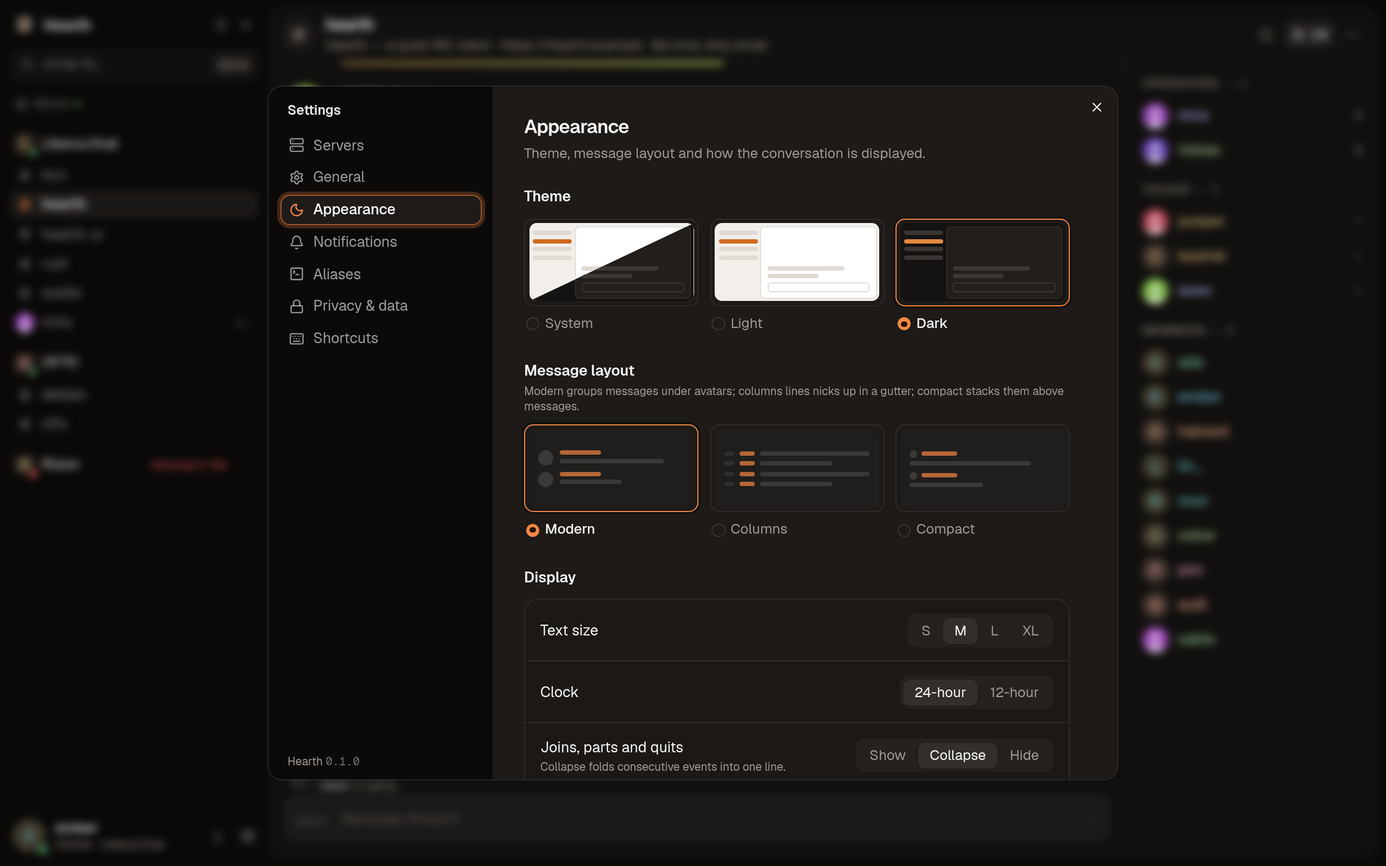
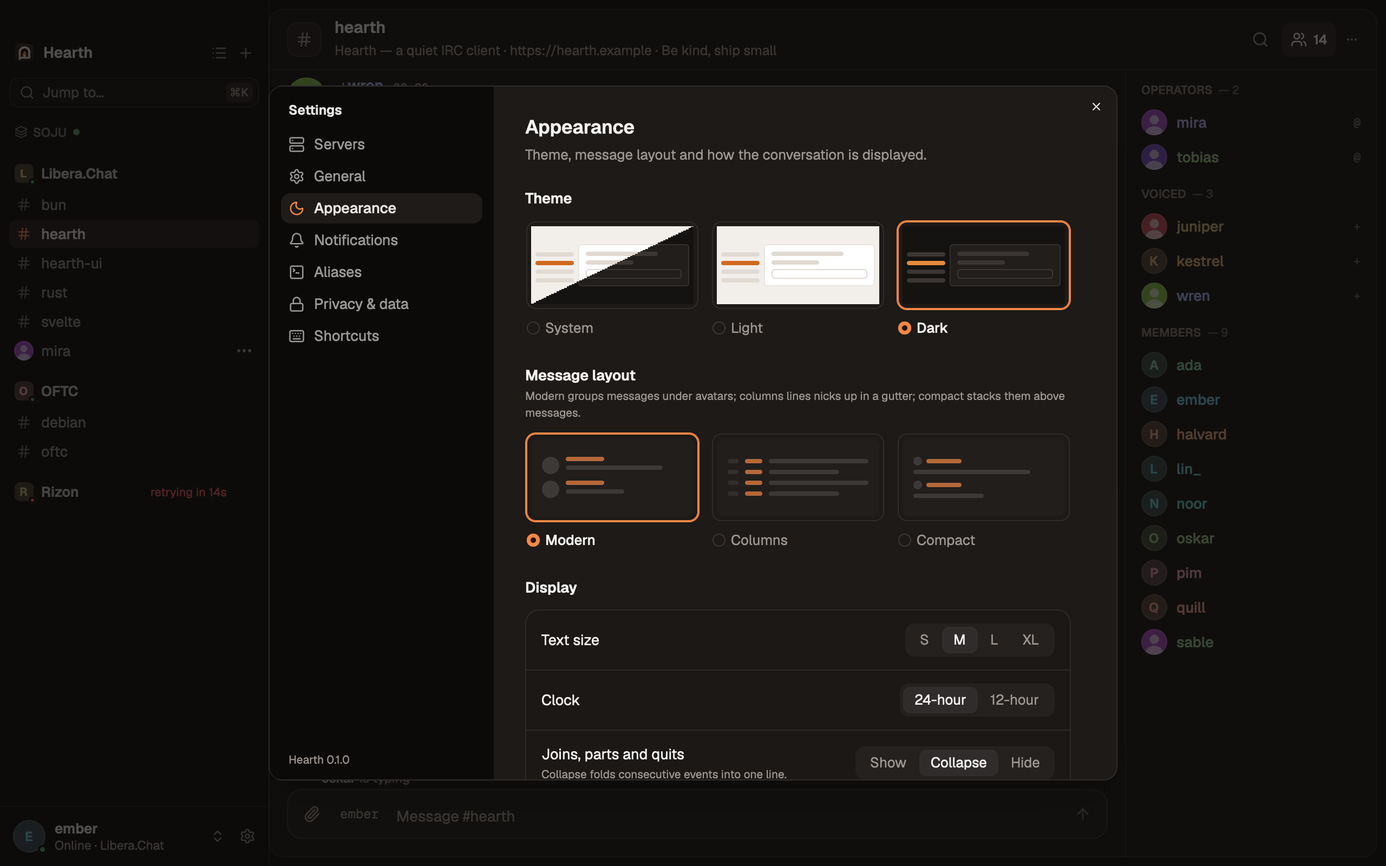
docs: describe the Rust app and refresh the screenshots

diff --git a/README.md b/README.md
@@ -1,5 +1,5 @@
 <p align="center">
-  <img src="src/assets/logo.png" width="96" height="96" alt="">
+  <img src="crates/hearth-app/assets/logo.png" width="96" height="96" alt="">
 </p>
 
 <h1 align="center">Hearth</h1>
@@ -19,7 +19,7 @@
   <img src="docs/screenshots/chat-dark.png" alt="Hearth showing a busy channel with replies, reactions, a link preview and the member list">
 </p>
 
-Hearth is built on a TypeScript engine running on Bun (`src/bun/core`) that handles connections, storage and the keychain, with a Svelte 5 interface on top, packaged with [Electrobun](https://electrobun.dev) and its bundled Chromium (CEF). It treats modern IRC features (history, read markers, replies, reactions, multiline messages) as part of the client rather than add-ons.
+Hearth is a native Rust app: an IRC engine (`crates/hearth-core`) that handles connections, storage and the keychain, a toolkit-free client state model (`crates/hearth-model`), and a GPU-rendered interface built with [GPUI Kit](https://github.com/longbridge/gpui-kit) (`crates/hearth-app`). It treats modern IRC features (history, read markers, replies, reactions, multiline messages) as part of the client rather than add-ons.
 
 ## Download
 
@@ -27,11 +27,12 @@ Get the latest installer from the [releases page](https://github.com/madrazaldi/
 
 | Platform | File |
 | --- | --- |
-| Windows | `Hearth_x.y.z_x64-setup.exe` or `Hearth_x.y.z_x64_en-US.msi` |
-| macOS (Apple silicon and Intel) | `Hearth_x.y.z_universal.dmg` |
-| Linux | `.AppImage`, `.deb` or `.rpm` |
+| Windows | `hearth-x.y.z-windows-x86_64-setup.exe` |
+| macOS (Apple silicon) | `hearth-x.y.z-macos-aarch64.dmg` |
+| macOS (Intel) | `hearth-x.y.z-macos-x86_64.dmg` |
+| Linux | `hearth-x.y.z-linux-x86_64.AppImage` or `.deb` |
 
-Hearth updates itself: new versions show up under Settings › General.
+The macOS app, the Windows installer and the AppImage update themselves: new versions show up under Settings › General. The `.deb` updates with your package manager.
 
 > [!NOTE]
 > The macOS build is not notarized yet, so Gatekeeper blocks the first launch. Right-click Hearth in Applications and choose **Open**, or run `xattr -dr com.apple.quarantine /Applications/Hearth.app`. On Windows, SmartScreen may warn about an unrecognized app until the installers are code-signed.
@@ -74,14 +75,14 @@ Hearth updates itself: new versions show up under Settings › General.
 - **Saved scrollback:** messages are stored locally in SQLite (`hearth.db` in the app-data directory), so scrollback survives restarts and works on servers without chathistory. It can be turned off and wiped under Settings → Privacy & data.
 - **Search:** ⌘⇧F searches every buffer, one network or the current buffer, using the local full-text index plus bouncer search. Narrow it with `from:nick`, `in:#channel`, `on:`, `before:` and `after:` (a `YYYY-MM-DD` date, `today` or `yesterday`); `from:` and `in:` autocomplete. Older results load as you scroll. Choosing a result jumps to the message even if it was never loaded: the history around it is fetched, and the messages between it and the present fill in as you scroll. Reopening search brings back the last query and results.
 - **Replies and reactions:** hover a message to reply, react, copy it or delete your own.
-- **Link previews** (opt-in): pages and images are fetched by the Bun backend, which refuses local and private addresses at every redirect.
+- **Link previews** (opt-in): pages and images are fetched by the engine, never by the interface, and it refuses local and private addresses at every redirect.
 - **Inline images**: with link previews on, image links (including soju FILEHOST uploads) show as thumbnails you can open full size. Images are checked by their bytes (PNG, JPEG, GIF, WebP; at most 8 MB), animations play on hover unless autoplay is on, and images in messages that mention NSFW stay blurred until clicked. Video and audio links get a compact card that opens in your browser; nothing is streamed into the app.
 - **Channel browser** for `/list`, with filtering and sorting.
 - **Saved buffers:** open channels and private conversations are remembered per network, including channel keys, and restored on launch.
 - **Ignore list** with nick or `nick!user@host` wildcard masks. **Per-buffer notifications:** all messages, mentions only, or muted.
 - **Watch list:** MONITOR shows online presence for private conversations and announces watched nicks.
 - **Tray:** optionally keep running in the menu bar or system tray when the window closes, and mark yourself away after a period in the background.
-- **Unread state:** read markers sync between devices, the sidebar shows unread counts and mention badges, a "New" divider marks where you left off, and the dock badge counts mentions.
+- **Unread state:** read markers sync between devices, the sidebar shows unread counts and mention badges, a "New" divider marks where you left off, and the dock badge (the tray tooltip on Windows and Linux) counts mentions.
 - **Desktop notifications** for mentions, highlight words and private messages.
 - **Highlight rules:** global highlight words, plus per-server words and `/regex/flags` patterns with a live test field, and "never highlight" nicks or masks for bots and relays.
 - **Aliases:** your own slash commands, set up under Settings → Aliases. For example `/ns` → `/msg NickServ $*`. They support `$1`…`$9`, `$2-`, `$*`, `$nick`, `$channel` and `$network`, and several commands separated by `;`. An alias can replace a built-in command and still call it.
@@ -110,7 +111,6 @@ Hearth updates itself: new versions show up under Settings › General.
 - **Security:**
   - Passwords are kept in the OS keychain, and existing plain-text passwords are migrated out of the config file.
   - Client certificates (CertFP) can be generated in the app.
-  - The UI runs under a strict Content Security Policy.
 
 ## Commands
 
@@ -125,7 +125,7 @@ Type `/help` in the app for the full list. The main ones are `/join`, `/part`, `
 | ⌘1–9 | Go to the Nth channel |
 | ⌘F | Filter messages in the current buffer |
 | ⌘⇧F | Search messages |
-| ⌘W | Close or leave the buffer |
+| ⌘W | Close the window (Ctrl+W closes or leaves the buffer on Windows and Linux) |
 | ⌘⇧M | Toggle the member list |
 | ⌘, | Open Settings |
 | ⌘/ | Show all keyboard shortcuts |
@@ -138,97 +138,100 @@ On Windows and Linux, use Ctrl instead of ⌘ and Alt instead of ⌥.
 
 ## Development
 
-You need [Bun](https://bun.sh). Electrobun downloads its own runtime and the bundled Chromium (CEF) on first use, so there is no native toolchain to install. On Linux the app needs the usual GTK and tray libraries at runtime.
+You need a stable [Rust toolchain](https://rustup.rs) (see `rust-version` in `Cargo.toml`). On Linux, install the libraries GPUI needs with `scripts/install-linux-deps.sh`. The first build compiles GPUI and takes a few minutes; later builds are incremental.
 
 ```sh
-bun install
-bun run dev            # the UI alone in a browser, against the scripted mock (src/lib/mock.ts)
-bun run start          # build the UI and run the real app (Electrobun dev mode)
-bun run check          # svelte-check + tsc for the UI, the build scripts and the Bun backend
-bun run test           # Vitest for the UI, then bun test for the backend (actor tests against a scripted server)
-bun run build          # stable release build into build/ and artifacts/
-bun run probe          # headless smoke test of the backend against a real server
+cargo run                          # the app (crates/hearth-app), with your real config and logs
+HEARTH_MOCK=1 cargo run            # the app against a scripted IRC session, no server needed
+cargo test --workspace             # engine, client state and app tests
+cargo clippy --workspace --all-targets -- -D warnings
+cargo fmt --all                    # rustfmt.toml sets the line width
+cargo xtask screenshots            # regenerate docs/screenshots offscreen (no window opens)
 ```
 
-`electrobun prepare` (run for you by `install`, `start` and `build`) projects the Electrobun SDK into `.hutch/devkit`, which is git-ignored; the UI and backend type-check against it.
+`HEARTH_MOCK=1` (or `--mock`) replays a scripted session from `crates/hearth-model/src/mock.rs` (Libera.Chat, OFTC and Rizon behind a soju bouncer), so UI work needs no server. Environment variables shape it: `HEARTH_THEME=light|dark|system`, `HEARTH_LAYOUT=columns|compact`, `HEARTH_VIEW=settings|switcher|search|channels|shortcuts`, `HEARTH_TAB=<settings tab>` and `HEARTH_SERVER=<id>` (edit a server), `HEARTH_BUFFER=<buffer>`, `HEARTH_QUERY=<search>`, `HEARTH_UPDATE=available|error` (the scripted updater's answer; by default there is no update), `HEARTH_EMPTY=1` (first-run screen), `HEARTH_NOAVATARS=1`, and `HEARTH_STRESS=1` (a `#stress` channel with about 10k lines of scrollback and 5k members, for performance work; `HEARTH_STRESS=live` adds a new line every 3 seconds). `HEARTH_BACKGROUND=1` opens the window without taking focus.
 
-When `bun run dev` runs in a plain browser instead of inside the app, Hearth replays a scripted IRC session from `src/lib/mock.ts`. This lets you work on the UI without a server. Query parameters control the preview: `?theme=light`, `?layout=columns|compact`, `?view=settings`, `?view=switcher`, `?view=search`, `?view=channels`, `?view=shortcuts`, `?tab=privacy` (open a Settings tab; add `&server=<id>` to edit a server), `?update=none` (the mock updater reports no update; by default it offers 0.2.0), `?empty` (first-run screen) and `?stress` (a `#stress` channel with about 10k lines of scrollback and 5k members, for performance work; `?stress=live` adds a new line every 3 seconds).
+A development run uses the same config and log directories as an installed Hearth (the identifier is still `app.hearth.irc`, and the keychain entries are the ones earlier versions wrote, so existing installs carry over). Set `HEARTH_CONFIG_DIR` and `HEARTH_DATA_DIR` to point it at throwaway data instead.
 
-`bun run start` uses the same config and log directories as an installed Hearth (the identifier is still `app.hearth.irc`, so existing installs carry over). Set `HEARTH_CONFIG_DIR` and `HEARTH_DATA_DIR` to point a development run at throwaway data instead.
+CI (`.github/workflows/ci.yml`) runs on every push and pull request: formatting, clippy and the tests on Linux, macOS and Windows, and a check that every crate follows the workspace version.
 
-`bun run screenshots` regenerates the images in `docs/screenshots` from the mock while `bun run dev` is running. It uses an installed Chrome; set `HEARTH_CHROME` to the binary of another Chromium-based browser to use that instead.
-
-CI (`.github/workflows/ci.yml`) runs on every push and pull request: type checks, Vitest and the Bun backend tests on Linux, macOS and Windows, and a check that the version numbers agree.
-
-To smoke-test the backend headlessly:
+To smoke-test the engine headlessly against a real server:
 
 ```sh
-HEARTH_HOST=irc.libera.chat HEARTH_NICK=someone bun run probe
+HEARTH_HOST=irc.libera.chat HEARTH_NICK=someone cargo run -p hearth-core --example probe
 ```
 
 ## Releasing
 
-Versions follow [semver](https://semver.org). The version lives in `electrobun.config.ts` and `package.json`, and CI fails if they disagree.
+Versions follow [semver](https://semver.org). The version lives once, in the workspace `Cargo.toml`, and CI fails if a crate or `Cargo.lock` disagrees.
 
-1. Run `bun run bump 0.2.0`. It sets both.
+1. Run `cargo xtask bump 0.2.0`.
 2. Commit (`chore(release): v0.2.0`), then tag and push: `git tag v0.2.0 && git push origin main v0.2.0`. The tag must match the version.
-3. `.github/workflows/release.yml` runs CI, then builds macOS (arm64 and x64), Linux and Windows apps into a **draft** GitHub Release. Each build ships its installer plus the flat files Electrobun's updater reads (`stable-<os>-<arch>-update.json` and the archive next to it). The release notes are generated from the commits since the previous tag by [git-cliff](https://git-cliff.org) (`cliff.toml`), grouped by conventional-commit type, so prefer `feat:`, `fix:` and `perf:` prefixes. The workflow can also be started by hand from the Actions tab.
-4. Check the draft, edit the notes if needed, and publish it. The in-app updater reads `https://github.com/madrazaldi/hearth/releases/latest/download/`, which only sees published releases.
+3. `.github/workflows/release.yml` runs CI, then builds macOS (Apple silicon and Intel), Linux and Windows installers with [cargo-packager](https://github.com/crabnebula-dev/cargo-packager) into a **draft** GitHub Release, plus the `latest.json` the updater reads. The release notes are generated from the commits since the previous tag by [git-cliff](https://git-cliff.org) (`cliff.toml`), grouped by conventional-commit type, so prefer `feat:`, `fix:` and `perf:` prefixes. The workflow can also be started by hand from the Actions tab.
+4. Check the draft, edit the notes if needed, and publish it. The in-app updater reads `https://github.com/madrazaldi/hearth/releases/latest/download/latest.json`, which only sees published releases.
 
-Electrobun's updater is hash-based: it compares the `hash` in the update file with the installed build and downloads the archive it names, so there is no separate update signing key. Update integrity rests on HTTPS and the GitHub release. Dev builds disable updates.
+Updates are signed with [minisign](https://jedisct1.github.io/minisign/): the public key is compiled into the app, and an update whose signature does not verify is refused. Builds without a key (development builds, forks) never update themselves.
 
-Signing is optional. Without the secrets below the workflow still builds, just unsigned (Repository secrets under Settings > Secrets and variables > Actions):
+Everything below is optional; without a group's secrets the workflow still builds, just unsigned or without updates (Repository secrets under Settings > Secrets and variables > Actions):
 
 | Secret | Purpose |
 | --- | --- |
-| `ELECTROBUN_CERTIFICATE` | Base64 of a Developer ID Application `.p12`. |
-| `ELECTROBUN_CERTIFICATE_PASSWORD` | Password of that `.p12`. |
-| `ELECTROBUN_DEVELOPER_ID` | For example `Developer ID Application: Name (TEAMID)`. |
-| `ELECTROBUN_APPLEID`, `ELECTROBUN_APPLEIDPASS`, `ELECTROBUN_TEAMID` | Apple ID, app-specific password and team, to notarize. |
+| `UPDATER_PRIVATE_KEY`, `UPDATER_PRIVATE_KEY_PASSWORD` | Signs update archives. Generate a pair with `cargo packager signer generate`. |
+| `UPDATER_PUBKEY` | The public half, compiled into the app. |
+| `MACOS_CERTIFICATE` | Base64 of a Developer ID Application `.p12`. |
+| `MACOS_CERTIFICATE_PASSWORD` | Password of that `.p12`. |
+| `MACOS_DEVELOPER_ID` | For example `Developer ID Application: Name (TEAMID)`. |
+| `MACOS_APPLE_ID`, `MACOS_APPLE_PASSWORD`, `MACOS_TEAM_ID` | Apple ID, app-specific password and team, to notarize. |
 
-Electrobun has no signing step for Windows or Linux, so SmartScreen warns on first run there. Without Apple secrets the macOS app is unsigned and Gatekeeper blocks the first launch (see Download).
+The `ELECTROBUN_*` names the macOS secrets had before are still read. Windows and Linux builds are not code-signed, so SmartScreen warns on first run there. Without Apple secrets the macOS app is unsigned and Gatekeeper blocks the first launch (see Download).
 
-Dependabot (`.github/dependabot.yml`) opens grouped monthly PRs for npm and GitHub Actions updates.
+To build an installer locally: `cargo install cargo-packager --locked`, then `cargo packager --release -p hearth-app`.
+
+Dependabot (`.github/dependabot.yml`) opens grouped monthly PRs for Cargo and GitHub Actions updates.
 
 ## Architecture
 
 ```
-src/bun/core   the engine: IRC connections, log store, keychain, previews, uploads, and `Core`, every command the UI calls
-src/bun        the Electrobun main process: window, tray, close-to-tray, notifications, updater, and the RPC wiring
-src/shared     the RPC schema shared by both sides
-src            the Svelte UI
+crates/hearth-core    the engine: IRC connections, log store, keychain, previews, uploads, and `Core`, every command the app calls
+crates/hearth-model   the client state: connections, buffers, incoming messages, history, unread counts, slash commands, and the scripted mock
+crates/hearth-app     the GPUI Kit app: views, the host that runs the model against the engine, and desktop integration
+xtask                 version bumps, release staging and screenshots (`cargo xtask`)
 ```
 
-The UI talks to the main process through one RPC channel. `src/lib/ipc.ts` exposes `invoke(command, args)` and `listen(event, handler)`; inside the app they go over Electrobun's RPC, and in a plain browser they go to the mock. The main process pushes IRC events (batched, one payload per burst) and updater progress back the same way.
+The engine runs on its own tokio runtime and hands event batches (one per burst) to the app. The model is a synchronous state machine with no UI toolkit or async runtime: it takes engine events in and queues `Effect`s out (send these lines, save these buffers, fetch this history), and the app's host executes them against the engine and feeds results back with `resolve`. That keeps the client logic testable by feeding raw IRC lines.
 
-### Core (`src/bun/core`)
+### Engine (`crates/hearth-core`)
 
-- `app.ts` is `Core`: config and commands.
-- `message.ts` parses and serializes IRC messages, including tags. `time.ts` handles server-time tags.
-- `transport.ts` reduces TCP, TLS and WebSocket to a line reader and a line writer (`Bun.connect` and the native WebSocket).
-- `client.ts` runs one actor per connection. It handles registration, CAP and SASL, STS, keepalive, reconnects, labeled-response routing, chathistory batches, folding `draft/multiline` batches into single messages, and message logging. `clock.ts` lets the tests drive backoff and keepalive timers by hand.
-- `scram.ts` implements SCRAM-SHA-256.
-- `manager.ts` owns all connections and spawns a child connection for each bouncer network.
-- `events.ts` batches events into a single payload per burst before sending them to the UI.
-- `store.ts` is the SQLite log (`bun:sqlite`, WAL). It holds messages with an FTS5 index, saved buffers and STS policies, and writes are batched into transactions.
-- `secrets.ts` stores and loads keychain entries with `Bun.secrets`. `certs.ts` generates client certificates and computes their fingerprints.
-- `preview.ts` fetches link previews and metadata avatars, with SSRF guards (`net.ts`) and a cache. `upload.ts` handles file uploads.
-- `harness.ts` and `*.test.ts` drive the connection actor against a scripted local server (`bun test`).
+- `app.rs` is `Core`: config and commands. Its async commands return futures that run on the engine's runtime, so the app awaits them from GPUI's executor.
+- `irc/message.rs` parses and serializes IRC messages, including tags. `irc/time.rs` handles server-time tags.
+- `irc/transport.rs` reduces TCP, TLS (rustls) and WebSocket to a line reader and a line writer.
+- `irc/client.rs` runs one actor per connection. It handles registration, CAP and SASL, STS, keepalive, reconnects, labeled-response routing, chathistory batches, folding `draft/multiline` batches into single messages, and message logging.
+- `irc/scram.rs` implements SCRAM-SHA-256.
+- `irc/manager.rs` owns all connections and spawns a child connection for each bouncer network.
+- `irc/events.rs` batches events into a single delivery per burst.
+- `store.rs` is the SQLite log (rusqlite, WAL). It holds messages with an FTS5 index, saved buffers and STS policies, and writes are batched into transactions.
+- `secrets.rs` stores and loads keychain entries. `certs.rs` generates client certificates and computes their fingerprints. `paths.rs` picks the config and data directories.
+- `preview.rs` fetches link previews and metadata avatars, with SSRF guards on every hop and a cache. `upload.rs` handles file uploads.
+- `tests/` drive the connection actor against a scripted local server.
 
-### Frontend (`src/lib`)
+### Client state (`crates/hearth-model`)
 
-- `state.svelte.ts` holds all client state (connections, buffers, members) using Svelte 5 runes.
-- `incoming.ts` turns server messages into state changes.
-- `history.ts` loads chathistory, falls back to the local log and dedupes merged lines. It also tracks the gaps a jump leaves between loaded stretches and fills them.
-- `search.ts` parses search filters and pages through the local log and the bouncer (buffer by buffer where the bouncer requires `in`).
-- `saved.ts` saves and restores open buffers.
-- `monitor.ts` tracks watched nicks with MONITOR.
-- `unread.ts` counts unread messages and highlights and syncs read markers.
-- `ignore.ts` matches ignore masks.
-- `*.test.ts` are Vitest suites. `test-utils.ts` feeds raw IRC lines into a mocked backend.
-- `commands.ts` implements slash commands. `multiline.ts` splits composer text into `draft/multiline` batches.
-- `format.ts` parses mIRC formatting and finds links.
-- `components/` holds the UI.
+- `state.rs` (`App`), `conn.rs` and `buffer.rs` hold all client state. `effect.rs` is what the host executes.
+- `incoming.rs` turns server messages into state changes.
+- `history.rs` loads chathistory, falls back to the local log and dedupes merged lines. It also tracks the gaps a jump leaves between loaded stretches and fills them.
+- `search.rs` and `search_panel.rs` parse search filters and page through the local log and the bouncer (buffer by buffer where the bouncer requires `in`).
+- `saved.rs`, `monitor.rs`, `unread.rs` and `ignore.rs` save open buffers, track watched nicks, count unread messages and highlights, and match ignore masks.
+- `commands.rs` and `aliases.rs` implement slash commands. `multiline.rs` splits composer text into `draft/multiline` batches. `composer.rs` handles completion and input history.
+- `format.rs` parses mIRC formatting and finds links. `timeline.rs` groups lines for the message list.
+- `panels.rs`, `welcome.rs` and `rows.rs` hold the logic behind the sidebar, switcher, channel browser, settings forms and first-run flow, so the views stay thin.
+- `mock.rs` is the scripted session. `testing.rs` feeds raw IRC lines in tests.
+
+### App (`crates/hearth-app`)
+
+- `host/` owns the model in a global GPUI entity that outlives windows, pumps engine events into it, runs effects and timers, and drives the mock in mock mode.
+- `ui/` holds the views. `ui/theme.rs` defines the light and dark themes; `ui/keys.rs` the keyboard shortcuts.
+- `platform/` is the desktop integration: menus, tray, close-to-tray, notifications, the dock badge, opening links, and the updater.
+- `tests/` run the host headlessly against the mock and against a scripted local server; `examples/screenshots.rs` renders the docs screenshots.
 
 Config is stored as JSON in the OS app-config directory with `0600` permissions. Passwords are stored in the OS keychain (service `app.hearth.irc`). If the keychain is unavailable, they stay in the config file instead.
 

diff --git a/AGENTS.md b/AGENTS.md
@@ -4,70 +4,72 @@ Guidance for coding agents working in this repo. See README.md for features and 
 
 ## Stack
 
-Hearth is an IRC client. The backend is TypeScript on Bun (`src/bun/core`), running in the main process of an [Electrobun](https://electrobun.dev) app (`src/bun`). The UI is Svelte 5 runes + TypeScript (`src/`), built with Vite and rendered by Electrobun's bundled Chromium (CEF) on every platform (`renderer: 'cef'` in `electrobun.config.ts`), so don't add WebKit/WebView2-specific workarounds.
+Hearth is an IRC client written in Rust. The engine (`crates/hearth-core`) runs connections, storage and the keychain on its own tokio runtime. The client state (`crates/hearth-model`) is a synchronous state machine with no UI toolkit and no async runtime. The app (`crates/hearth-app`) renders it with [GPUI Kit](https://github.com/longbridge/gpui-kit) (`gpui-kit` 0.9, pinned exactly: GPUI snapshots change API between releases, so bump it deliberately). `xtask/` holds repo chores.
 
 ## Commands
 
 ```sh
-bun install                    # also runs `electrobun prepare`, which projects the SDK into .hutch/devkit (git-ignored)
-bun run dev                    # UI only, in a browser, against the scripted mock (src/lib/mock.ts)
-bun run start                  # build the UI and run the real app (electrobun dev)
-bun run check                  # svelte-check + tsc for UI, build scripts and src/bun — must report 0 errors
-bun run test                   # Vitest (UI) then bun test (src/bun)
-bun run build                  # stable Electrobun build into build/ and artifacts/
-bun run probe                  # headless backend smoke test: HEARTH_HOST=… HEARTH_NICK=… bun run probe
-bun run screenshots            # regenerate docs/screenshots (needs `bun run dev` running)
+cargo run                                   # the app with your real config (set HEARTH_CONFIG_DIR/HEARTH_DATA_DIR for throwaway data)
+HEARTH_MOCK=1 cargo run                     # the app against the scripted mock (crates/hearth-model/src/mock.rs)
+cargo test --workspace                      # all tests; CI runs them with --locked
+cargo clippy --workspace --all-targets -- -D warnings
+cargo fmt --all                             # rustfmt.toml: max_width 160
+cargo xtask screenshots                     # regenerate docs/screenshots offscreen
+cargo xtask bump <x.y.z>                    # the version lives only in the workspace Cargo.toml
+HEARTH_HOST=… HEARTH_NICK=… cargo run -p hearth-core --example probe   # headless engine smoke test
 ```
 
-Run a single test: `bun x vitest run -t "name"` / `bun test src/bun -t "name"`.
+Run a single test: `cargo test -p hearth-model <name>` (or `-p hearth-core`, `-p hearth-app`).
 
-CI (`.github/workflows/ci.yml`) runs check and both test suites on Linux/macOS/Windows. Releases come from `.github/workflows/release.yml` on a `v*` tag (see README "Releasing"): it reruns CI, then builds macOS, Linux and Windows apps into a draft release with git-cliff notes (`cliff.toml`). Bump versions with `bun run bump <x.y.z>`, which keeps `electrobun.config.ts` and `package.json` in sync (CI checks this). Use conventional commit prefixes; the release notes are grouped by them. Never commit signing material. The frontend updater lives in `src/lib/updater.svelte.ts` over the `updater-*` commands in `src/bun/index.ts` (Electrobun's hash-based `Updater`); `mock.ts` fakes those commands.
+CI (`.github/workflows/ci.yml`) runs fmt, clippy and the tests on Linux/macOS/Windows, plus `cargo xtask check-version`. Releases come from `.github/workflows/release.yml` on a `v*` tag (see README "Releasing"): it reruns CI, then builds installers with cargo-packager (config in `[package.metadata.packager]` of `crates/hearth-app/Cargo.toml`) into a draft release with git-cliff notes (`cliff.toml`) and a minisign-signed `latest.json` for the updater. Use conventional commit prefixes; the release notes are grouped by them. Never commit signing material.
 
 ## Architecture
 
-**Core (`src/bun/core`)**
-- `app.ts`: `Core`, which owns everything below; `Core.invoke(command, args)` implements every command the UI can call.
-- `client.ts`: one actor per connection (a serialized async loop). It handles registration, CAP/SASL (PLAIN, EXTERNAL, SCRAM), STS, reconnect/backoff, labeled-response and chathistory routing (`Route`, pending requests keyed by id), and logging to the store. It stamps a `time` tag on live messages that lack one. Timers go through `clock.ts` so tests can drive them with `ManualClock` (in `harness.ts`).
-- `manager.ts`: owns the connections, spawns a child connection per soju network, and caps the send backlog (`MAX_BACKLOG`).
-- `events.ts`: an Emitter that batches events into one RPC payload per burst.
-- `transport.ts`: TCP/TLS/WebSocket as a line reader and writer (`Bun.connect`, native WebSocket). It also does client certificates.
-- `store.ts`: SQLite (`bun:sqlite`, WAL, FTS5). Writes are queued and flushed in batches. Use `Db.memory()` in tests.
-- `secrets.ts`: the keychain via `Bun.secrets` (service `app.hearth.irc`). Config secrets are stripped from `config.json` when `inKeychain` is set.
-- `preview.ts` + `net.ts`: link previews with SSRF guards. Every hop must pass `checkPublic`.
-- `paths.ts`: config/data directories; `HEARTH_CONFIG_DIR`/`HEARTH_DATA_DIR` override them.
+**Engine (`crates/hearth-core`)**
+- `app.rs`: `Core`, a cheap `Clone` handle that owns everything below. Sync commands need no tokio context; async ones return `Pending<T>`, a boxed future already running on the engine's runtime, so any executor can await it. Commands for the same server run in call order.
+- `irc/client.rs`: one actor per connection (a serialized async loop). It handles registration, CAP/SASL (PLAIN, EXTERNAL, SCRAM), STS, reconnect/backoff, labeled-response and chathistory routing, and logging to the store. It stamps a `time` tag on live messages that lack one.
+- `irc/manager.rs`: owns the connections, spawns a child connection per soju network, and caps the send backlog (`MAX_BACKLOG`).
+- `irc/events.rs`: an emitter that batches events into one delivery per burst.
+- `irc/transport.rs`: TCP/TLS/WebSocket as a line reader and writer, including client certificates.
+- `store.rs`: SQLite (rusqlite, WAL, FTS5). Writes are queued and flushed in batches; reads flush first. Use `Db::memory()` in tests.
+- `secrets.rs`: the keychain (service `app.hearth.irc`), behind a `Keychain` trait. Entries match what the old Bun build wrote (`Bun.secrets`), so saved passwords carry over. Tests use `MemoryKeychain`; never touch the real keychain from a test.
+- `preview.rs`: link previews and avatars with SSRF guards. Every hop must pass the public-address check.
+- `paths.rs`: config/data directories; `HEARTH_CONFIG_DIR`/`HEARTH_DATA_DIR` override them.
 
-**Main process (`src/bun/index.ts`, `src/bun/commands.ts`)**: window (`BrowserWindow`, CEF), tray, close-to-tray, notifications, opener, updater, and the RPC server. `src/shared/rpc.ts` is the RPC schema; `IRC_COMMANDS` in `commands.ts` lists the commands forwarded to `Core.invoke`. Events go back with the `irc` push message.
+**Client state (`crates/hearth-model`)**
+- `state.rs`: `App`, with `Conn` (`conn.rs`) and `Buffer` (`buffer.rs`). The host loop is `handle_events` → `take_effects` → execute → `resolve(req, result)`, plus `set_now`/`tick`/`next_wakeup` for timers. `revision()` and the per-buffer `rev()`/`lines_rev()` tell views what changed.
+- `effect.rs`: every side effect the model asks for. Request effects carry a `ReqId`.
+- `incoming.rs`: turns each server message into state changes.
+- `history.rs`: CHATHISTORY paging with the local-log fallback, history dedupe, and gaps for jumps.
+- `search.rs`, `search_panel.rs`: search across the local FTS log and `soju.im/search`, deduped and newest first. soju requires `in=`, so it falls back to one SEARCH per buffer.
+- `saved.rs`, `monitor.rs`, `unread.rs`: saved buffers and rejoin, MONITOR, unread/highlight counts and read markers.
+- `commands.rs`, `aliases.rs`: slash commands (`run_input`) and user aliases.
+- `panels.rs`, `welcome.rs`, `composer.rs`, `rows.rs`, `timeline.rs`, `format.rs`: logic behind the views (sidebar, switcher, channel browser, settings forms, first run, completion, message grouping, mIRC formatting). Keep logic here, not in `hearth-app`.
+- `types.rs`: `Settings` (with defaults), `Line` and the core types the app uses.
+- `mock.rs`: the scripted session for mock mode and screenshots.
 
-**Frontend (`src/lib`)**
-- `ipc.ts`: `invoke`/`listen` shim. It uses Electrobun RPC inside the app and the mock backend in a browser (`installMock`); `platform.ts` has the platform/shell flags.
-**Frontend (`src/lib`)**
-- `state.svelte.ts`: the `App`, `Conn` and `Buffer` classes using `$state` runes, a single `app` instance.
-- `incoming.ts`: turns each server message into state changes (`handleMessage`, `historyLine`).
-- `history.ts`: CHATHISTORY paging with the local-log fallback, `mergeLines` (history dedupe), and gaps: `loadAround` for jumps, `addWindow`/`fillGap` for the unloaded stretch between a jump and the present.
-- `search.ts`: search across the local FTS log and `soju.im/search`, deduped and newest first. `parseQuery` handles `from:`/`in:`/date filters; `mergePages` pages across sources. soju requires `in=`, so it falls back to one SEARCH per buffer.
-- `saved.ts`: saving and restoring the buffer list, and rejoin commands.
-- `monitor.ts`: MONITOR subscriptions and the watch list.
-- `unread.ts`: unread and highlight counts, and read markers.
-- `commands.ts`: slash commands (`runInput`).
-- `api.ts`: typed `invoke` wrappers.
-- `types.ts`: types shared with the backend (`camelCase` JSON).
-- `components/`: the UI. Keep it small and reuse `Segmented`, `Switch` and `Icon`.
+**App (`crates/hearth-app`)**
+- `host/`: the global `Hearth` entity that owns the model and outlives windows (on Windows and Linux close-to-tray destroys the window). It pumps engine events, executes effects against `Core`, schedules ticks, and drives the mock.
+- `ui/`: the views. `ui/data.rs` is the seam (`UiAction`, view structs); `ui/bind.rs` builds view data from the model. Views take plain data and emit `UiAction`s. Keep them small and reuse `ui/widgets.rs` and `ui/controls.rs`.
+- `platform/`: menus, tray, close-to-tray, notifications, dock badge, `open_url` (only http, https, mailto, tel), and the updater (cargo-packager-updater; the public key comes from `HEARTH_UPDATER_PUBKEY` at build time).
 
 ## Conventions and gotchas
 
 - **Adding a command** takes these steps:
-  1. Implement it in `src/bun/core/app.ts` and add a case to `Core.invoke`.
-  2. Add its name to `IRC_COMMANDS` in `src/bun/commands.ts` (shell-level commands such as the tray or updater are handled in `src/bun/index.ts` instead).
-  3. Add a wrapper in `api.ts`, and a case in `mock.ts` so the browser preview keeps working.
-- **Settings** are a JSON blob owned by the frontend (`Settings` in `types.ts`, with defaults). The backend reads only the keys it needs when settings are applied.
-- **CSP is strict** (set in `vite.config.ts`). The UI must not fetch remote URLs or load remote images. Route network access through the backend, as `preview.ts` does, and return data URLs.
-- **Sending from a buffer** uses `conn.sendFrom(buf, line)` when the reply should come back to that buffer. That call adds a labeled-response label.
-- **History dedupe:** `Buffer.merge` dedupes by msgid, then fuzzily (same nick and text within 3 s). Keep `time` tags on everything.
+  1. Implement it on `Core` in `crates/hearth-core/src/app.rs` (async work returns `Pending`).
+  2. Add an `Effect` variant in `crates/hearth-model/src/effect.rs` (and a `Reply` if it returns data), and queue it from the model.
+  3. Execute it in the app's host (`crates/hearth-app/src/host/mod.rs`), and answer it in `mock.rs` so mock mode keeps working.
+- **Settings** are a JSON blob owned by the client state (`Settings` in `crates/hearth-model/src/types.rs`, with defaults; unknown keys are dropped, missing ones defaulted). The engine reads only the keys it needs when settings are applied.
+- **The UI never touches the network.** Previews, avatars and inline images are fetched by the engine (with its SSRF guards) and handed to the views as data URLs.
+- **Sending from a buffer** goes through the model so the reply comes back to that buffer; it adds a labeled-response label.
+- **History dedupe:** `Buffer::merge` dedupes by msgid, then fuzzily (same nick and text within 3 s). Keep `time` tags on everything.
 - **Secrets never go in logs, config or test fixtures.**
-- **Comments are sparse** and explain *why*. Match the surrounding style. There is no prettier config, so follow the existing formatting (2-space TS/Svelte).
+- **Comments are sparse** and explain *why*. Match the surrounding style; `cargo fmt` with the repo's `rustfmt.toml`.
+- **GPUI:** don't update an entity or window from inside its own update or key dispatch; defer (`window.defer`, `cx.defer`). Variable-height virtual lists use `list(ListState, …)`.
 
 ## Testing
 
-- **Frontend:** `src/lib/test-utils.ts` provides `mockApi`, `connect(app, {caps, isupport})`, `feed(app, ...rawLines)` and `sent` (outgoing lines). Mock `./api` and `./notify` with `vi.mock` as in `state.test.ts`, and test behaviour by feeding raw IRC lines.
-- **Backend:** `src/bun/core/*.test.ts` (bun test) run the actor against a scripted local TCP server (`harness.ts`, `Peer`/`Listener`). Add a test there for protocol changes such as CAP, SASL, batches or labels. Use `ManualClock` for backoff, keepalive and pacing.
-- **UI changes:** check them visually with `bun run dev`. The mock query params `?view=search|channels|settings|switcher|shortcuts`, `?tab=<settings tab>&server=<id>`, `?theme=light`, `?layout=columns|compact`, `?update=none` and `?empty` open the matching views; `?noavatars` turns off mock avatars. `?stress` opens `#stress`, a channel with about 10k lines and 5k members, for checking performance. `?stress=live` also posts a line every 3 s.
+- **Client state:** feed raw IRC lines with `testing.rs` (`connect(app, caps, isupport)`, `feed(app, lines…)`, `sent(app)`), as the suites in `crates/hearth-model/src/tests/` do. Pin time with `set_now`.
+- **Engine:** `crates/hearth-core/tests/*.rs` run the actor against a scripted local TCP server (`tests/common`). Add a test there for protocol changes such as CAP, SASL, batches or labels.
+- **App:** `crates/hearth-app/tests/host_mock.rs` drives headless GPUI windows against the mock (typing, keys, overlays); `host_real.rs` runs the real engine against a scripted local server in temp directories.
+- **UI changes:** look at them with `cargo xtask screenshots` (renders offscreen, no window) or `HEARTH_MOCK=1 cargo run`. Mock environment variables: `HEARTH_VIEW=search|channels|settings|switcher|shortcuts`, `HEARTH_TAB=<settings tab>`, `HEARTH_SERVER=<id>`, `HEARTH_THEME=light`, `HEARTH_LAYOUT=columns|compact`, `HEARTH_UPDATE=available|error`, `HEARTH_EMPTY=1`, `HEARTH_NOAVATARS=1`, `HEARTH_BUFFER=<buffer>`, `HEARTH_QUERY=<search>`, and `HEARTH_STRESS=1|live` (`#stress`, about 10k lines and 5k members, for performance). `HEARTH_BACKGROUND=1` opens the window without taking focus.

diff --git a/CONTRIBUTING.md b/CONTRIBUTING.md
@@ -10,16 +10,17 @@ Open an [issue](https://github.com/madrazaldi/hearth/issues/new/choose) with you
 
 The [Development](README.md#development) section of the README covers setup. [AGENTS.md](AGENTS.md) describes the architecture and the conventions the code follows, such as how to add a command end to end and where tests go.
 
-Most UI work doesn't need an IRC server: `bun run dev` runs the interface in a browser against a scripted session (`src/lib/mock.ts`).
+Most UI work doesn't need an IRC server: `HEARTH_MOCK=1 cargo run` runs the app against a scripted session (`crates/hearth-model/src/mock.rs`), and `cargo xtask screenshots` renders it offscreen.
 
 Before opening a pull request, make sure these pass. CI runs the same checks on Linux, macOS and Windows:
 
 ```sh
-bun run check
-bun run test
+cargo fmt --all --check
+cargo clippy --workspace --all-targets -- -D warnings
+cargo test --workspace
 ```
 
-- Add tests for behaviour changes. Feed raw IRC lines through `src/lib/test-utils.ts` for frontend logic, and use the scripted server in `src/bun/core/*.test.ts` (see `harness.ts`) for protocol changes.
+- Add tests for behaviour changes. Feed raw IRC lines through `crates/hearth-model/src/testing.rs` for client logic, and use the scripted server in `crates/hearth-core/tests/` (see `tests/common`) for protocol changes.
 - For UI changes, include a screenshot in the pull request.
 - Use [conventional commit](https://www.conventionalcommits.org) prefixes (`feat:`, `fix:`, `perf:`, `docs:`). The release notes are generated from them.
 - Keep secrets out of code, logs and test fixtures.
